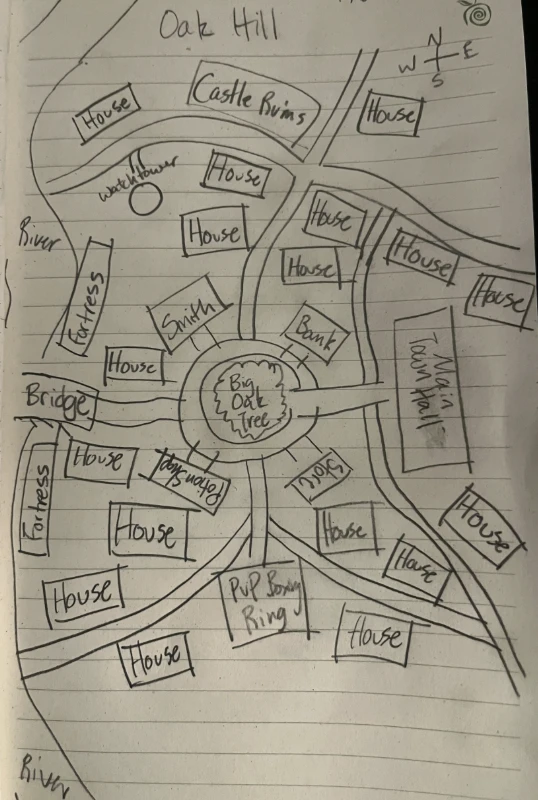
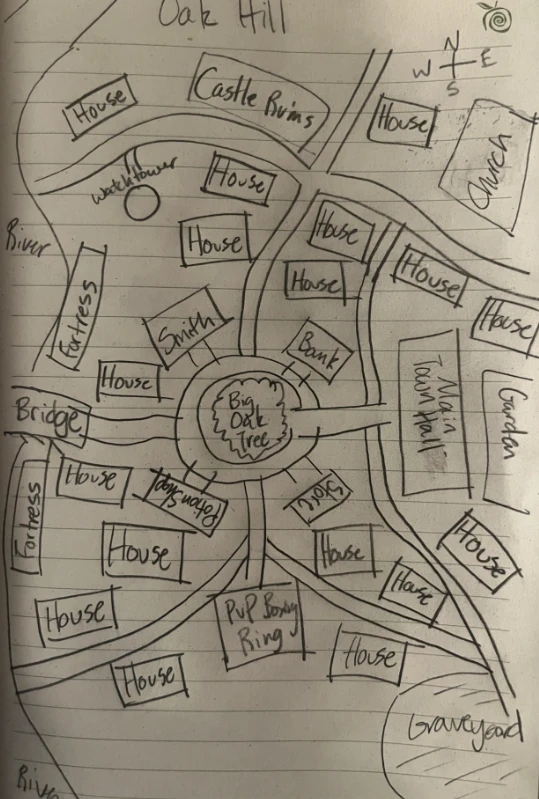
Oak Hill's layout: a church in the northeast, a garden behind the town hall and a graveyard in the southeast, with the owner's newest sketch.

diff --git a/CLAUDE.md b/CLAUDE.md
@@ -34,7 +34,7 @@ Last updated 2026-11-06, late night (fifteenth session). Everything below is bui
 **Map, mountains and Oak Hill (2026-11-06, late night; the full notes are in `Docs/Roadmap.md`):**
 - Maps: `Docs/MapSketch.jpg` sets the layout, `Docs/TerrainSketch.webp` what the land looks like. PvP 1 is the northeast high grasslands with an abandoned castle; PvP 2 the middle-south forest and desert with Birch Grove. The rocky and volcano southwest becomes forest (still in the code), and the world's size stays for now.
 - Mountains (planned, not built; the first terrain job, Opus 5.5 high): 80 m snowy, 60 m others, at most about 35 degrees unless a real cliff, no slopes that look walkable but aren't, ranges merging, climbing later, Breath of the Wild's design. Order: mountains, climbing (online-reviewer plan review first), steep faces.
-- Towns: Oak Hill first, and Blackrock is not the standard. `Docs/OakHillSketch.webp` is the layout: big oak on a round plaza, Smith, Bank, Store, Potion Shop, Town Hall east, Boxing Ring south, 17 houses, Castle Ruins north, and on the river front two forts by the bridge and a watchtower facing Blackrock. Gently hilly ground like Hogsmeade or Skyrim's main town, not flat.
+- Towns: Oak Hill first, and Blackrock is not the standard. `Docs/OakHillSketch.webp` is the layout: big oak on a round plaza, Smith, Bank, Store, Potion Shop, Town Hall east, Boxing Ring south, 17 houses, Castle Ruins north, Church northeast, Garden behind the Town Hall, Graveyard southeast, and on the river front two forts by the bridge and a watchtower facing Blackrock. Gently hilly ground like Hogsmeade or Skyrim's main town, not flat.
 - Oak Hill moved 100 m west (`WorldMap.h`): centre about 60 m from the river, 185 m from Blackrock. Only the land and the map name exist there. Its west part falls on the original square, so its ground, forest and seam must be dealt with when building. World map names of those two towns sit outward (`FTown::LabelSide`); not seen on screen yet.
 - Test house: three versions in MoveLab on grass past the floor's +Y edge, X -1700 Standard (14k), 0 Reduced (300k, Nanite), 1700 Detailed (2.4M, Nanite). Pipeline: `Art/Buildings` -> `Tools/BuildBuildings.ps1` (`building_clean.py`, `building_import.py`) -> `/Game/Buildings`, drawn 1.2x (`HouseScale`, 14.4 m long) so the door clears the knight. `/Game/Buildings` is never cooked, so MoveLab skips them in a package; take that line out of DefaultGame.ini when real buildings go in. The Detailed files are too big for GitHub and are only on this PC (.gitignore; remake from the Meshy task in the roadmap). Meshy balance 104 at last check.
 - The owner chose the Reduced 300k Nanite house (2026-11-07): build Oak Hill's houses that way. Still to do: test many copies for frame rate (the first test was inconclusive: three houses cost nothing measurable, and nobody confirmed they were in frame). Notes: thatch reads a bit orange against the concept (grade it), lanterns are painted and give no light at low sun, and the chimney looks heavy. Interiors: later, Skyrim-style doors into shared rooms, shops, bank and town hall first (owner: not yet).

diff --git a/Docs/Roadmap.md b/Docs/Roadmap.md
@@ -82,6 +82,7 @@ Mountain shape and climbing (owner approved this plan, 2026-11-06: something sim
   - **South:** the PvP Boxing Ring, at the end of a short road from the plaza.
   - **West, the front toward Blackrock (owner, 2026-11-06):** the river runs along the town's west edge, north to south. A straight road goes from the plaza to the bridge. Two long forts stand on the town's bank, one on each side of the bridge, with a round watchtower to the northwest beyond the north fort. They all face Blackrock across the river.
   - **North:** the Castle Ruins, a large old building on the north side of the road that curves across the top of town, with one house beyond them to the northwest. The castle and its ruin are not designed yet.
+  - **East and southeast (owner, 2026-11-07):** a large Church in the northeast corner, past the road that crosses the top of town; a long Garden right behind the Town Hall, on its east side; a round Graveyard in the far southeast corner, where the roads end.
   - **Other roads:** one leaves the plaza to the north; one curves across the north of town, west to east, with a branch leaving to the northeast past the ruins; one runs north to south behind the Bank and between it and the Town Hall, on to the southeast; two more run from south of the plaza to the southwest and southeast edges.
   - **Houses:** 17 scattered along those roads, not in rows: 8 to the north, 1 by the plaza, 4 to the southwest, 4 to the southeast.
   - **Ground (owner, 2026-11-06):** not flat, but not too hilly either: some hills in the town, like Hogsmeade in Hogwarts Legacy or the main town in Skyrim. Streets rise and fall and buildings sit at different heights. Today's town code does the opposite, levelling a disc of ground (`Towns()` and `LandHeight` in `WorldMap.h`), so Oak Hill needs its own gentle shape. Suggested, to be judged: the plaza and oak on a low rise, which also suits the name, and houses on stone footings that go deeper on the downhill side.
